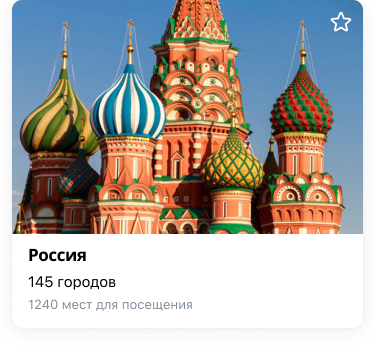
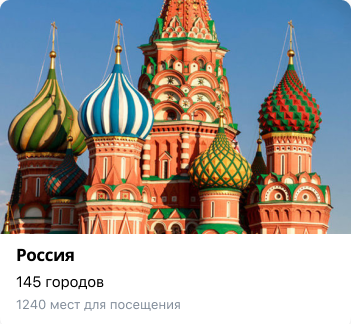
dan

diff --git a/src/panels/css/Main.css b/src/panels/css/Main.css
@@ -16,6 +16,6 @@
 
 .c3 {
     background-image: url(../../img/ros1.png);
-    width: 374px;
-    height: 350px;
+    width: 324px;
+    height: 351px;
    }
